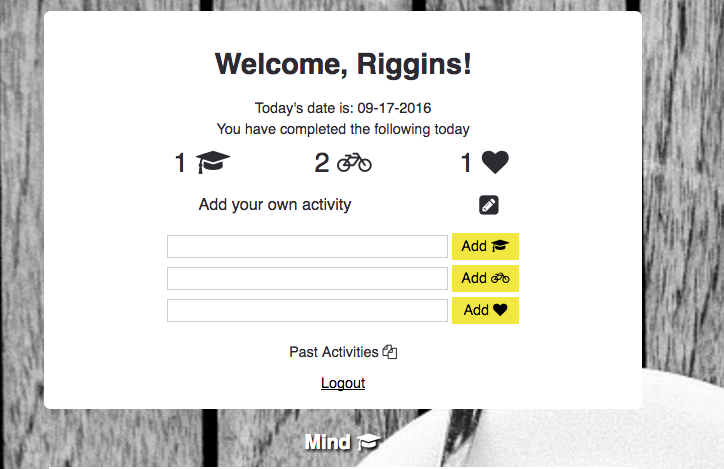
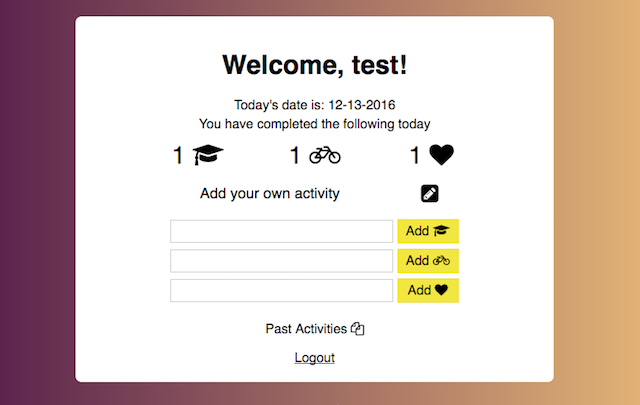
v21 background gradient, index redesign

diff --git a/public/style.css b/public/style.css
@@ -4,12 +4,9 @@
 
 body {
 	width: 100%;
-	background-image: url('coffee6.jpg');
-	min-height: 1300px; 
-	background-size: cover;
-	background-repeat: no-repeat;
-    background-position: left top;
-    color: #2D2A32;
+	background: #F0C27B; 
+	background: -webkit-linear-gradient(to left, #F0C27B , #4B1248); 
+	background: linear-gradient(to left, #F0C27B , #4B1248); 
 }
 
 .hidden {
@@ -146,9 +143,11 @@ p.past-activities {
 }
 
 .form {
-	margin: 50px auto;
-	width: 400px;
+	border: 1px solid whitesmoke;
+	margin: 25px auto;
+	max-width: 400px;
 	padding: 20px;
+	width: 90%;
 }
 
 .intro, .dashboard, .mbs {

diff --git a/readme.md b/readme.md
@@ -5,6 +5,7 @@ Live site: https://glacial-cove-28448.herokuapp.com/
 3mbs is a daily activity reminder to help you live a healthier, happier lifestyle.
 
 ![](public/3mbs-index.png)
+
 ![](public/3mbs-login.png)
 
 # Usage
